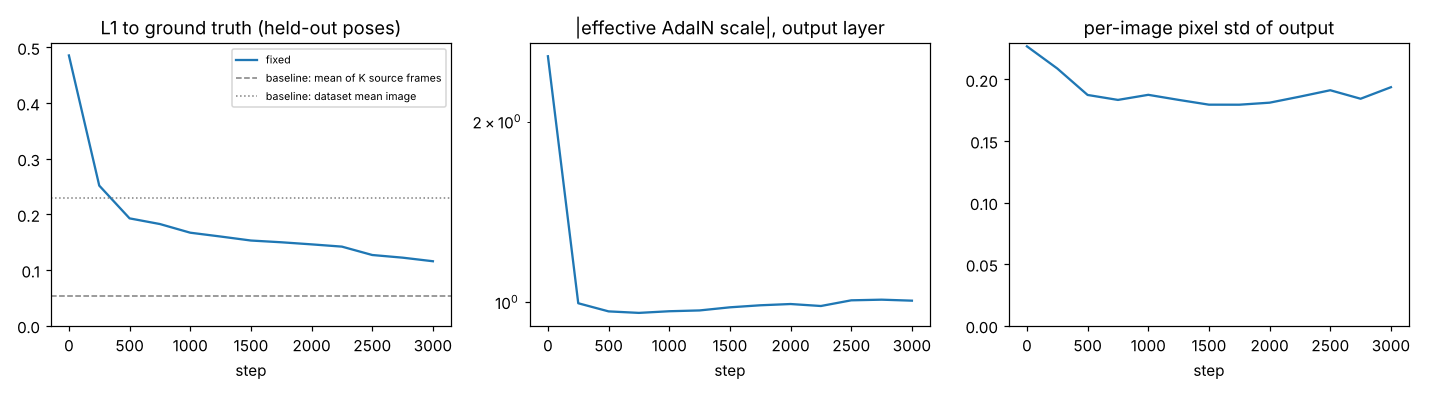
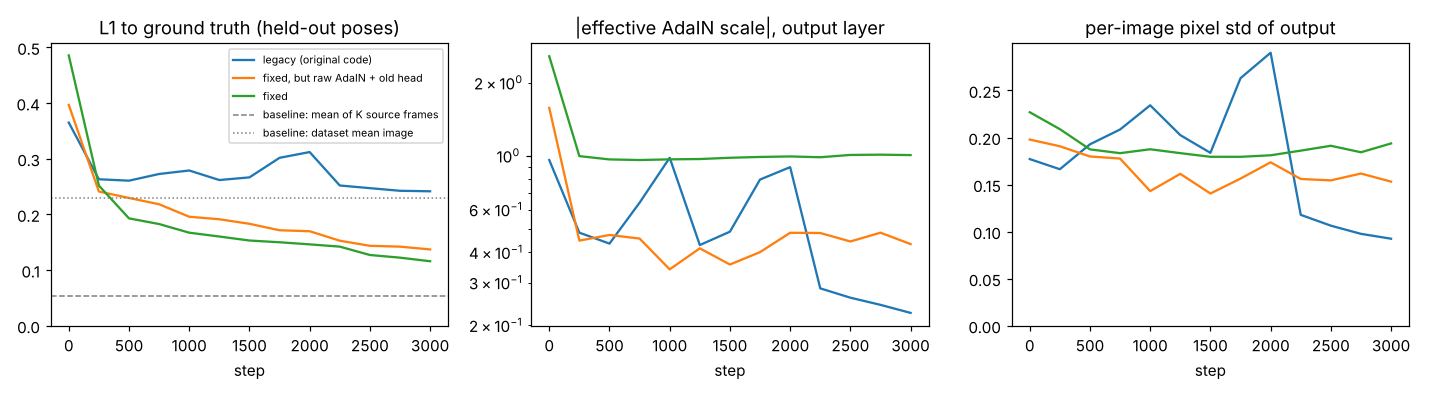
Add legacy/ablation smoke-test results and update README
Claude-Session: https://claude.ai/code/session_01434AHTHh1fpWb1hJdPidHt

diff --git a/README.md b/README.md
@@ -1,25 +1,73 @@
 # few-shot-learning-of-talking-heads
-Unofficial implementation of "Egor Zakharov et al. Few-Shot Adversarial Learning of Realistic Neural Talking Head Models, 2019"
+Unofficial implementation of "Egor Zakharov et al. Few-Shot Adversarial Learning of Realistic Neural Talking Head Models, 2019" (Keras 3 / TensorFlow).
 
-## Work In Progress
-I created generator, embedder, and discriminator on Keras. After a few days of training, it just infers black images:( I am investigating the cause. I opened this repository to get your contribution. Feel free to open an issue and make a pull-request.
+## Status
 
-![results/0_300/7.jpg](https://raw.githubusercontent.com/asterisk37n/few-shot-learning-of-talking-heads/master/7.jpg)
+The original Keras 2 / TF1 code never trained properly: first it produced black images, then 16 px mosaics (`7.jpg`).
+The causes were found and fixed, and the code was ported to Keras 3 (see the PR "Fix AdaIN collapse ..." for the full list):
 
-### Fix: VGG preprocessing
-The perceptual losses fed generator outputs in [-1, 1] RGB straight into VGG19 and VGGFace, which were trained on Caffe-style input (BGR, 0-255, ImageNet / VGGFace mean subtracted). `models.py` now converts frames to that format before both networks. In a small-scale run (64px, 24 identities, 1500 steps, CPU) this removed most of the 16px block pattern seen above; it has not been verified at 256px on VoxCeleb2.
+- images rescaled to [-1, -0.992] by `skimage.transform.resize` without `preserve_range` (black images; fixed in 2019)
+- AdaIN scale used as `P e` instead of `1 + P e`, which collapses to ~0 together with the embedding and kills every residual branch
+- an AdaIN on the 3-channel output (`Conv -> ReLU -> AdaIN -> tanh`)
+- a ReLU applied to the raw input image in the first block of G, E and D
+- VGG19 / VGGFace fed [-1, 1] RGB instead of caffe-preprocessed BGR, and the wrong VGG layers
+- generator adversarial loss `max(0, 1 - D)` instead of `-D`; matching loss on per-frame embeddings
+- no shuffling and a fixed target frame per video
 
-## Docker
-TensorFlow 1.14 / Keras 2.2.4 on Python 3.6 (versions in `requirements.txt`). TensorFlow 1.x has no arm64 wheels, so on Apple Silicon build and run with `--platform linux/amd64` (CPU emulation, slow).
+Only a CPU smoke test on synthetic data has been run (below). Training on VoxCeleb2 at 256 px has **not** been verified yet.
 
-```sh
-docker build --platform linux/amd64 -t fsth .
-# The scripts read ../few-shot-learning-of-talking-heads/datasets/..., so mount the repository under that name.
-mkdir -p logs trained_models
-docker run --rm --platform linux/amd64 \
-  -v "$PWD":/few-shot-learning-of-talking-heads -w /few-shot-learning-of-talking-heads \
-  -v "$HOME/.keras":/root/.keras \
-  fsth python meta_learning.py
+## Usage
+
+```bash
+pip install -r requirements.txt
+
+# meta-learning; --data contains frames/<id>/<video>/*.jpg and lndmks/<id>/<video>/*.jpg
+python meta_learning.py --data datasets/voxceleb2-9f/train --out trained_models
+
+# few-shot fine-tuning on a new person (frames/*.jpg and lndmks/*.jpg)
+python fewshot_learning.py --data datasets/fewshot/monalisa --meta-dir trained_models --out trained_models/monalisa
+
+# rendering
+python prediction.py --finetuned trained_models/monalisa --landmarks path/to/landmarks/*.jpg --out results
 ```
 
-`fewshot_learning.py` and `prediction.py` run the same way.
+VGG19 and VGGFace weights are downloaded from GitHub releases on first use
+(or pass `--vgg19-weights` / `--vggface-weights`).
+`Config.legacy()` (`--legacy`) reproduces the original behaviour for comparison only.
+
+## CPU smoke test
+
+```bash
+python smoke_test.py --arm legacy          --out runs/legacy
+python smoke_test.py --arm fixed_raw_adain --out runs/fixed_raw_adain
+python smoke_test.py --arm fixed           --out runs/fixed
+python make_report.py
+```
+
+Procedurally generated heads (`synthetic_data.py`): every identity has its own colours, face shape and hair,
+every frame its own pose and expression; the landmark image carries geometry only.
+64 px, width 16 (1/4 of the paper), K = 8, batch 6, 3000 steps, ~35 min per run on 2 CPU cores.
+Evaluation targets are poses never used for training; "unseen ids" are identities never used for training (no fine-tuning).
+
+Columns: landmarks, ground truth, legacy, fixed but raw AdaIN + old output head, fixed.
+
+![compare](docs/smoke_test/compare_seen.png)
+
+| arm | L1 seen ids | L1 unseen ids | 16 px block ratio | output pixel std | AdaIN scale (body / out) |
+|---|---|---|---|---|---|
+| legacy (original code) | 0.241 | 0.235 | 3.74 | 0.092 | 0.020 / 0.225 |
+| fixed, but raw AdaIN + old head | 0.137 | 0.209 | 1.39 | 0.153 | 0.059 / 0.432 |
+| fixed | 0.116 | 0.202 | 1.02 | 0.194 | 0.981 / 1.006 |
+| *ground truth* | – | – | 1.12 | – | – |
+| *baseline: mean of K source frames* | 0.054 | 0.067 | | | |
+| *baseline: dataset mean image* | 0.230 | 0.218 | | | |
+
+What this does and does not show:
+
+- The original code is worse than outputting the dataset mean image; its AdaIN scales collapse to ~0.02 and the output is blocky.
+- The fixed code does not collapse and follows the landmarks (mouth, tilt, position) and the identity's background/hair colours.
+- In this setting most of the improvement comes from the fixes other than the AdaIN parameterisation;
+  with the raw parameterisation the scales still collapse (0.06), and fixing it removes the grid and lowers L1 further.
+  The contribution of each fix individually was not measured.
+- The fixed model is still far worse than the trivial "mean of the source frames" baseline and transfers skin colour poorly:
+  this is a check that training now progresses, not a reproduction of the paper.

diff --git a/docs/smoke_test/results.md b/docs/smoke_test/results.md
@@ -1,5 +1,7 @@
 | arm | L1 seen ids | L1 unseen ids | 16px block ratio | output pixel std | AdaIN scale (body / out) |
 |---|---|---|---|---|---|
+| legacy (original code) | 0.241 | 0.235 | 3.74 | 0.092 | 0.020 / 0.225 |
+| fixed, but raw AdaIN + old head | 0.137 | 0.209 | 1.39 | 0.153 | 0.059 / 0.432 |
 | fixed | 0.116 | 0.202 | 1.02 | 0.194 | 0.981 / 1.006 |
 | *ground truth* | – | – | 1.12 | – | – |
 | *baseline: mean of K source frames* | 0.054 | 0.067 | | | |
